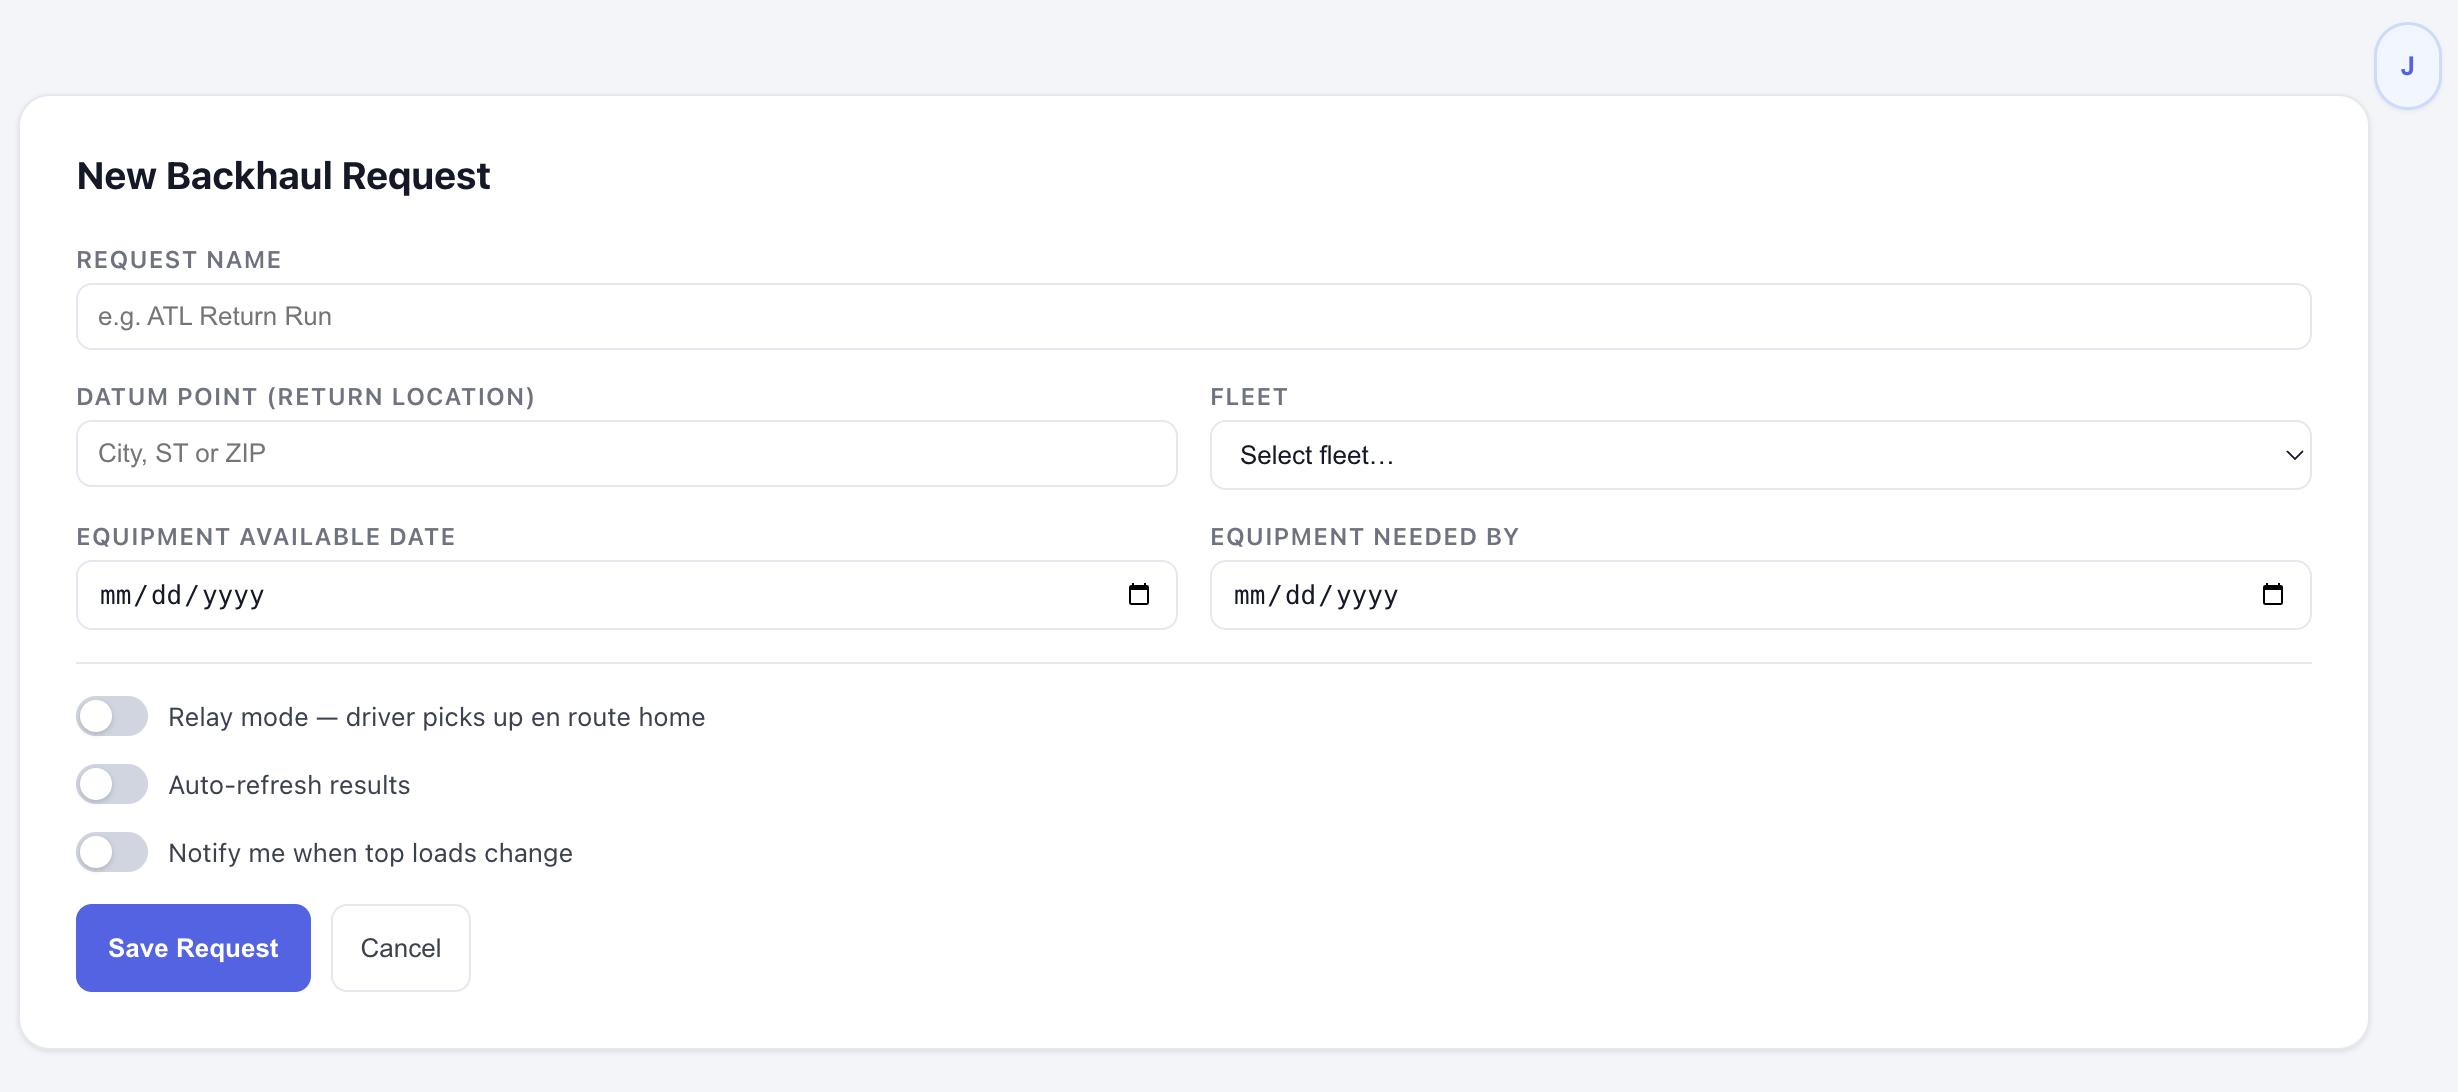
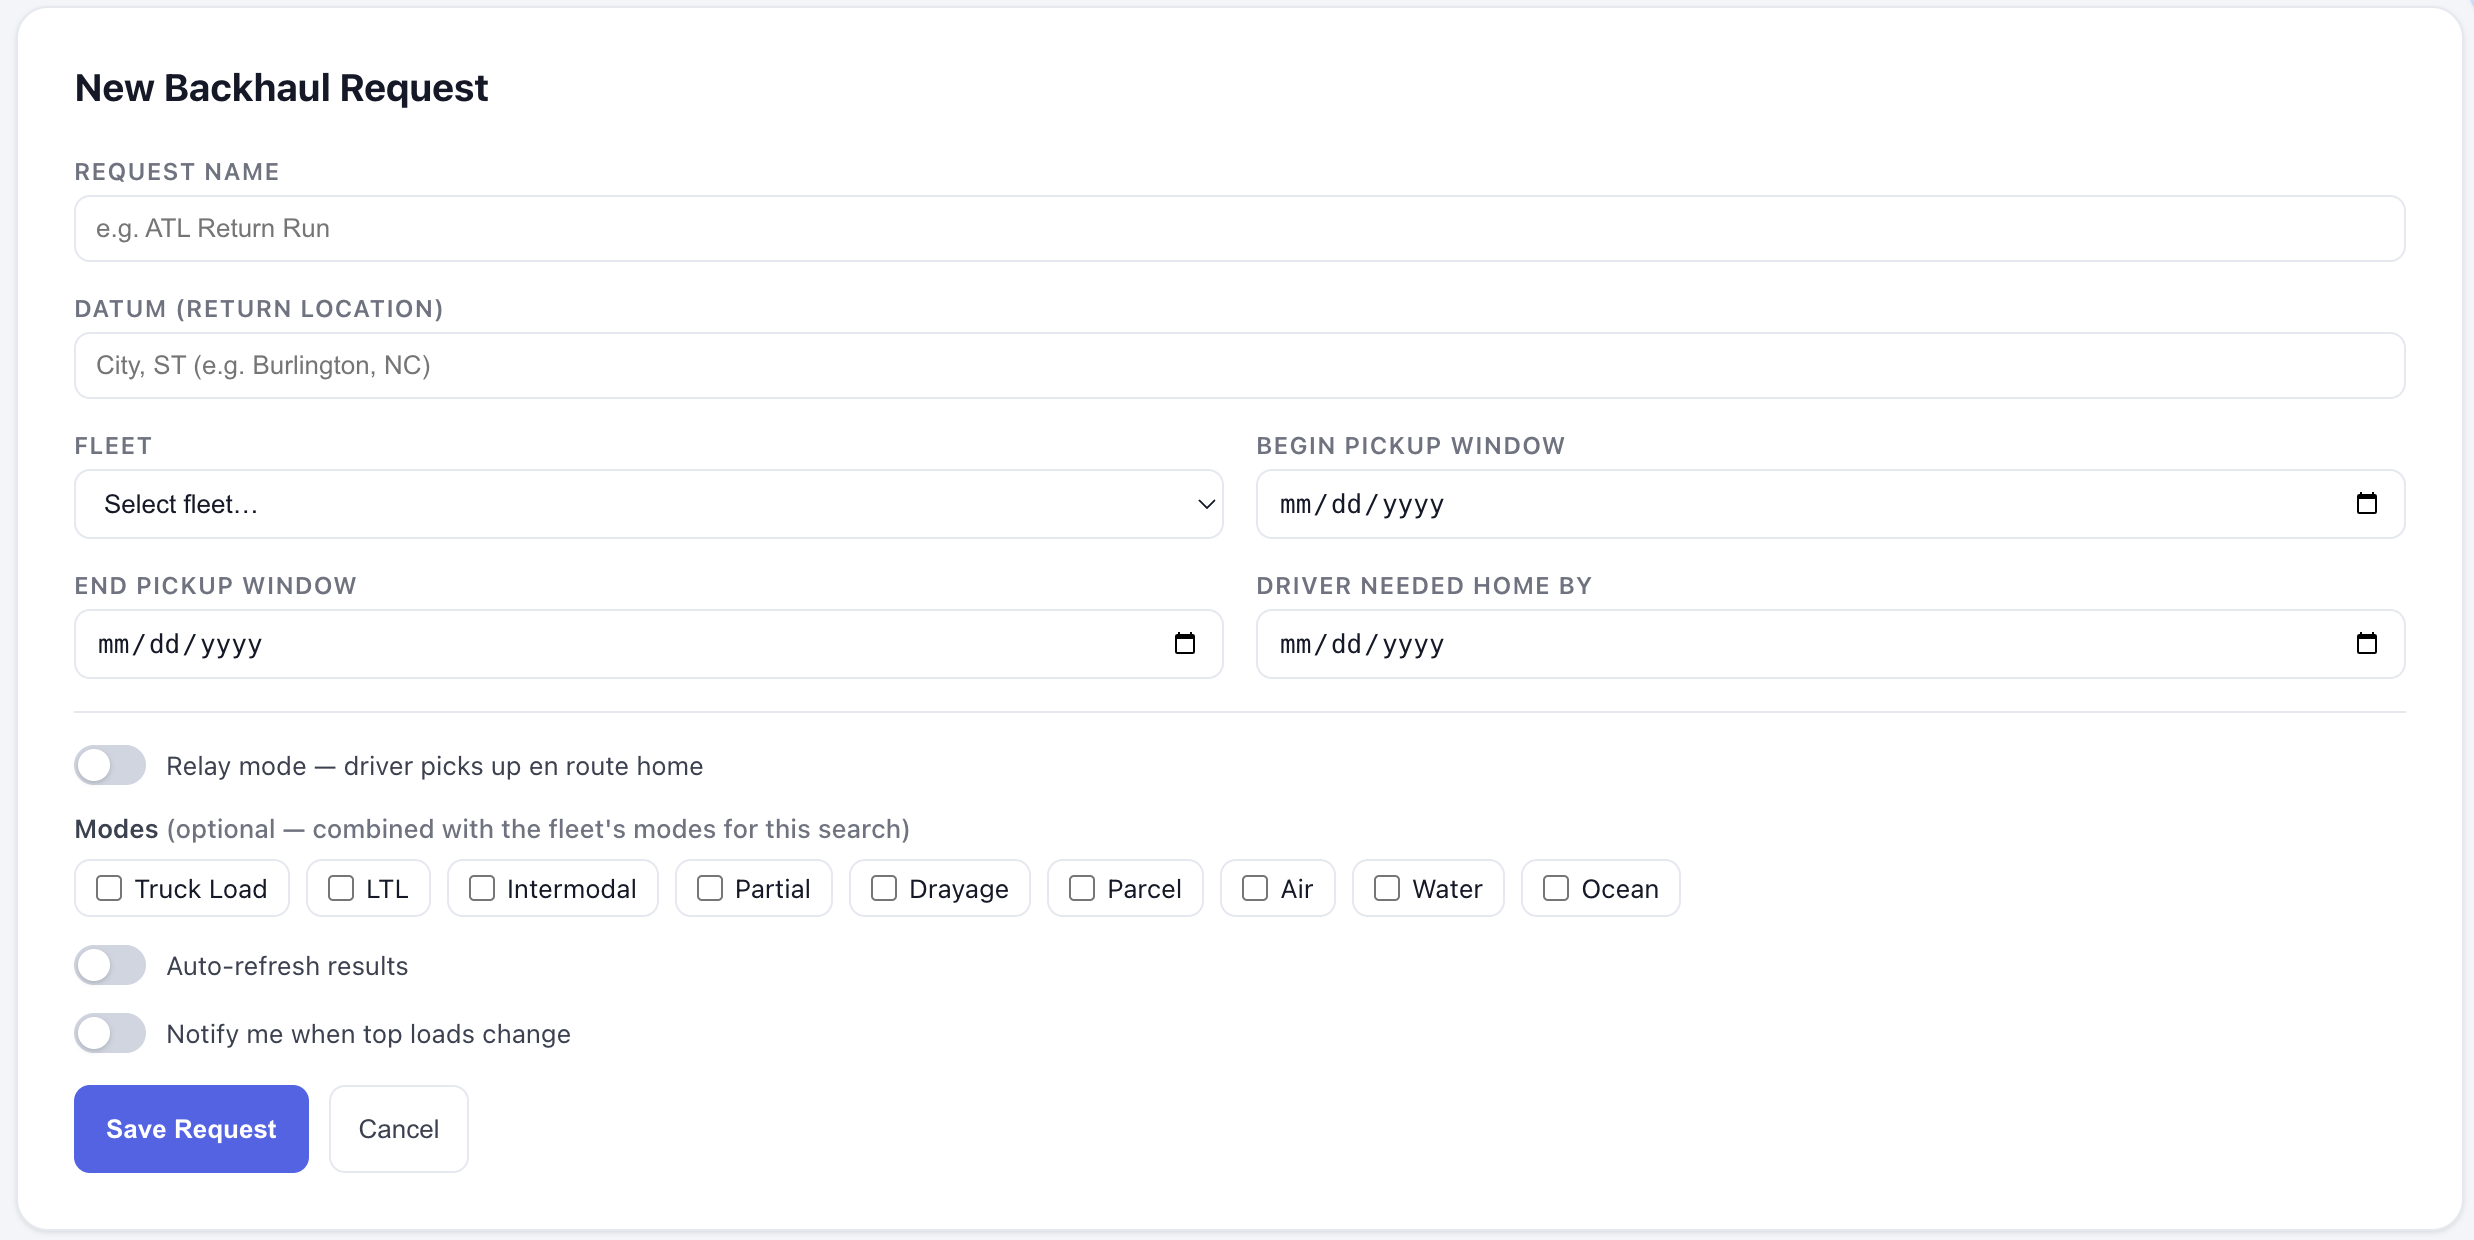
docs: user guide screenshots + Modes field doc (#103)
- New captures: s2-share.png (detail dialog with Share menu — also shows
  Driver Needed Home By header and sticky footer), s5-reports-declined.png
  (Operations Declined card with live figures)
- Re-captured s2-backhaul-form.png showing the Driver Needed Home By field
- Uncommented the two #103 image slots; refreshed the form alt text
- Added the Modes selector doc (#36) — visible in the form screenshot but
  previously unexplained in the guide

diff --git a/public/user-guide.html b/public/user-guide.html
@@ -379,6 +379,11 @@
         </div>
 
         <div class="subsection">
+          <div class="subsection-title">Modes <span class="badge">Optional</span></div>
+          <div class="subsection-desc">Select transport modes (Truck Load, LTL, Intermodal, etc.) to widen this search beyond your fleet's default modes. Selections are combined with the fleet profile's modes for this request only.</div>
+        </div>
+
+        <div class="subsection">
           <div class="subsection-title">Auto-refresh results <span class="badge">Optional</span></div>
           <div class="subsection-desc">Toggle <strong>Auto-refresh results</strong> and Haul Monitor will automatically re-run the search on a schedule so your results stay current without manual intervention. Choose from 30 min to 24 hr intervals.</div>
         </div>
@@ -388,7 +393,7 @@
           <div class="subsection-desc">Toggle <strong>Notify me when top loads change</strong> to get alerted by email, text, or both when auto-refresh detects a change in the top result. Sent to the phone and email on your fleet profile.</div>
         </div>
 
-        <img class="shot" src="/guide/s2-backhaul-form.png" alt="Backhaul request form showing all fields with Relay mode, Auto-refresh results, and Notify me toggles, and Save Request button" />
+        <img class="shot" src="/guide/s2-backhaul-form.png" alt="Backhaul request form showing all fields including Driver Needed Home By, with Relay mode, Modes, Auto-refresh results, and Notify me toggles, and Save Request button" />
       </div>
     </div>
 
@@ -438,8 +443,7 @@
           <div class="field-row"><div class="field-name">Text</div><div class="field-desc">Enter a US mobile number and a short note. Sends a compact summary by SMS (no map).</div></div>
           <div class="field-row"><div class="field-name">Copy</div><div class="field-desc">Copies the full load summary to your clipboard — paste it into any channel of your own and edit before sending.</div></div>
         </div>
-        <!-- TODO(#103): capture screenshot — load detail dialog with Share menu open
-        <img class="shot" src="/guide/s2-share.png" alt="Load detail dialog with the Share menu open showing Email, Text, and Copy options" /> -->
+        <img class="shot" src="/guide/s2-share.png" alt="Load detail dialog with the Share menu open showing Email, Text, and Copy options" />
         <div class="note" style="margin-top:12px;">
           <span class="note-icon">⚠️</span>
           <span>Cancelling a request asks for a reason. Choose <strong>OPERATIONS DECLINED</strong> when operations passes on a viable load — Haul Monitor records the top load's revenue at that moment and totals what was passed on in <strong>Reports</strong> (see Section 5).</span>
@@ -574,8 +578,7 @@
           <div class="field-row"><div class="field-name">Carrier Net</div><div class="field-desc">The carrier's revenue share of the declined loads</div></div>
         </div>
         <p class="step-desc" style="margin-top:12px;">Each declined request is listed beneath the totals with the load's origin → destination and its figures — a clear record of the cost of saying no.</p>
-        <!-- TODO(#103): capture screenshot — Reports page Operations Declined card
-        <img class="shot" src="/guide/s5-reports-declined.png" alt="Reports page Operations Declined card showing gross, customer net, and carrier net totals with per-request rows" /> -->
+        <img class="shot" src="/guide/s5-reports-declined.png" alt="Reports page Operations Declined card showing gross, customer net, and carrier net totals with per-request rows" />
       </div>
     </div>
 